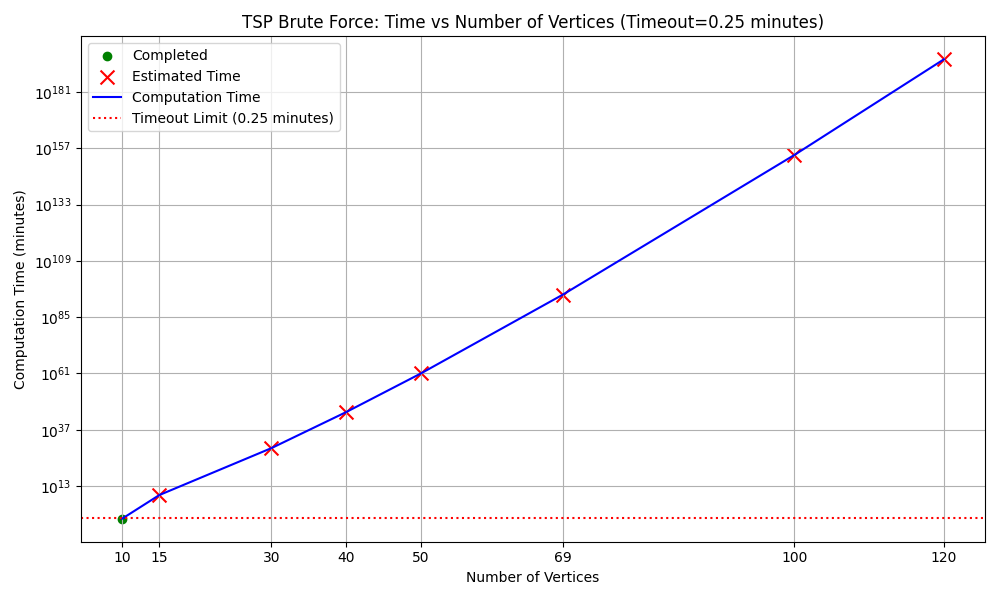
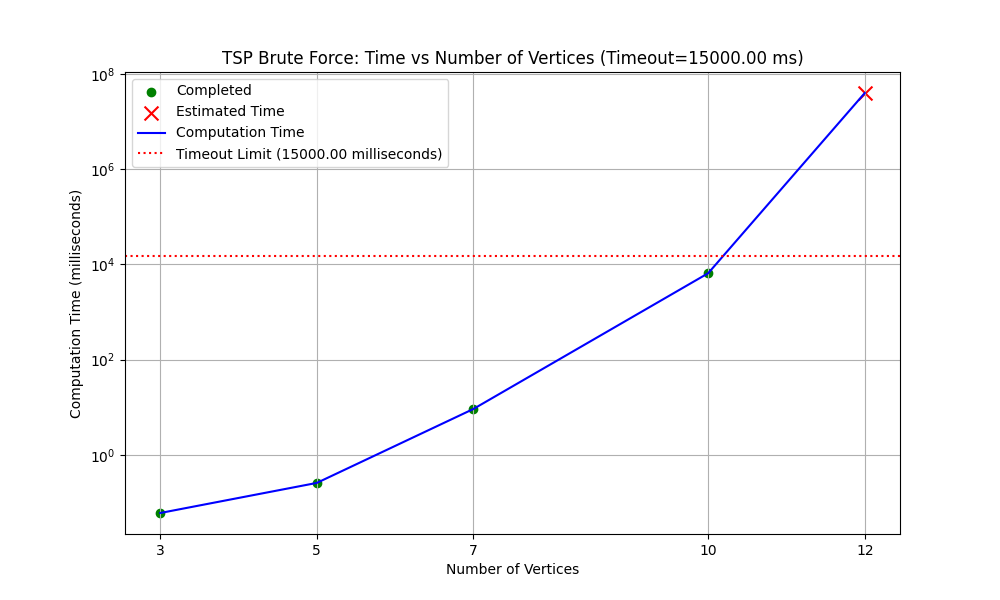
done

diff --git a/code/brute_force_dumb_null.py b/code/brute_force_dumb_null.py
@@ -28,39 +28,46 @@ def brute_force(nodes, time_limit):
 
     return best_path, shortest_distance, False  # No timeout
 
-def graph(cities,best_path,shortest_distance,data,algo,start=0):
-    order = np.array(best_path) # this are the indicies of the cities
+def graph(cities, best_path, shortest_distance, data, algo, start=0):
+    order = np.array(best_path)  # These are the indices of the cities
 
     # Reorder points based on the specified order
     ordered_points = cities[order]
-    
+
     # Add the starting city to the end to complete the circuit
     ordered_points = np.vstack([ordered_points, ordered_points[start]])
-    x = ordered_points[:,0]
-    y = ordered_points[:,1]
-    
+
+    x = ordered_points[:, 0]
+    y = ordered_points[:, 1]
+
     # Create the plot
-    plt.plot(x, y, marker='o', linestyle='-', color='blue', label='Ordered Path')
+    plt.figure(figsize=(8, 6))
+
+    # Plot the path with markers and arrows for clarity
+    plt.plot(x, y, marker='o', markersize=8, color='blue', linestyle='-', label=f'Total Distance: {round(shortest_distance, 2)}')
+
+    # Add direction arrows
+    for i in range(len(x) - 1):
+        plt.annotate('', xy=(x[i + 1], y[i + 1]), xytext=(x[i], y[i]),
+                     arrowprops=dict(facecolor='black', arrowstyle='->'))
+
+    # Add city labels
+    for i, (x_coord, y_coord) in enumerate(zip(x, y)):
+        plt.text(x_coord, y_coord, f'{i}', fontsize=12, ha='right')
+
     # Add labels and title
-    #Create the plot
-    plt.plot(x, y, marker='o', linestyle='-', color='blue', label=f'Total Distance : {round(shortest_distance,2)}')
-    #Add labels and title
     plt.xlabel('X axis')
     plt.ylabel('Y axis')
-    plt.title('Plot of Points in Custom Order')
-    plt.title(f'{algo} : {data} path')
+    plt.title(f'{algo}: {data} Path')
     plt.legend()
 
     # Save the plot to a file
-    plt.savefig('custom_order_plot.png')
-    
-    name,_ = data.split('.')
-    plt.savefig(f'{algo}_{name}_plot.png')
+    name, _ = data.split('.')
+    plt.savefig(f'{algo}_{name}_matplotlib.png')
 
-def test_and_time(dataset_paths, time_limit=60):
-    """
-    Tests multiple datasets, times each run with a timeout.
-    """
+    # Show the plot for debugging purposes
+    #plt.show()
+def test_and_time(dataset_paths, time_limit=15000):  # time_limit in milliseconds
     times = []
     vertices = []
     timeouts = []
@@ -71,45 +78,42 @@ def test_and_time(dataset_paths, time_limit=60):
         num_vertices = len(cities)
 
         # Time the brute force TSP execution
-        start_time = time.time()
-        best_path, shortest_distance, timeout = brute_force(cities, time_limit)
-        elapsed_time = time.time() - start_time
+        start_time = time.time() * 1000  # Start time in milliseconds
+        best_path, shortest_distance, timeout = brute_force(cities, time_limit/1000)
+        elapsed_time = (time.time() * 1000) - start_time  # Elapsed time in milliseconds
 
         # Estimate the time for timeout cases
         if timeout:
             num_permutations = math.factorial(num_vertices - 1)
             estimated_time = time_limit / (elapsed_time / num_permutations)
-            estimated_times.append(estimated_time / 60)  # Convert to minutes
+            estimated_times.append(estimated_time)  # Keep in milliseconds
         else:
-            estimated_times.append(elapsed_time / 60)  # Convert to minutes
-            graph(cities,best_path,shortest_distance,data,'brute_force')
+            estimated_times.append(elapsed_time)  # Keep in milliseconds
+            graph(cities, best_path, shortest_distance, data, 'brute_force')
 
         # Store the results
-        times.append(elapsed_time / 60)  # Convert to minutes
+        times.append(elapsed_time)  # Keep in milliseconds
         vertices.append(num_vertices)
         timeouts.append(timeout)
 
-        # Indicate if timeout occurred
         if timeout:
-            print(f'Dataset: {data}, Timeout after {time_limit / 60:.2f} minutes, Vertices: {num_vertices}')
+            print(f'Dataset: {data}, Timeout after {time_limit / 1000 :.2f} seconds, Vertices: {num_vertices}')
         else:
-            print(f'Dataset: {data}, Time: {elapsed_time / 60:.2f} minutes, Vertices: {num_vertices}')
+            print(f'Dataset: {data}, Time: {elapsed_time:.2f} milliseconds, Vertices: {num_vertices}')
 
     return vertices, times, timeouts, estimated_times
 
-def plot_time_vs_vertices(vertices, times, timeouts, estimated_times, time_limit):
+def plot_time_vs_vertices(vertices, times, timeouts, estimated_times, time_limit=15000):
     """
-    Plots the number of vertices against the computation time.
+    Plots the number of vertices against the computation time in milliseconds.
     Indicate timeouts on the graph.
     """
     plt.figure(figsize=(10, 6))
 
-    # Initialize flags to track if the labels have been used
     estimated_time_label_used = False
     completed_label_used = False
     total_time = []
 
-    # Plot normal points where no timeout occurred
     for i in range(len(vertices)):
         if timeouts[i]:
             if not estimated_time_label_used:
@@ -127,32 +131,31 @@ def plot_time_vs_vertices(vertices, times, timeouts, estimated_times, time_limit
 
             total_time.append(times[i])
 
-    plt.plot(vertices,total_time, linestyle='-', color='blue', label='Computation Time')
+    plt.plot(vertices, total_time, linestyle='-', color='blue', label='Computation Time')
 
-    # Add horizontal line for timeout
-    plt.axhline(y=time_limit / 60, color='red', linestyle='dotted', label=f'Timeout Limit ({time_limit / 60:.2f} minutes)')
+    # Add horizontal line for timeout (in milliseconds)
+    plt.axhline(y=time_limit, color='red', linestyle='dotted', label=f'Timeout Limit ({time_limit:.2f} milliseconds)')
 
     plt.xlabel('Number of Vertices')
-    plt.ylabel('Computation Time (minutes)')
-    plt.title(f'TSP Brute Force: Time vs Number of Vertices (Timeout={time_limit / 60:.2f} minutes)')
-    #plt.yscale('log')  # Logarithmic scale for y-axis
+    plt.ylabel('Computation Time (milliseconds)')
+    plt.title(f'TSP Brute Force: Time vs Number of Vertices (Timeout={time_limit :.2f} ms)')
     plt.grid(True, which='both')  # Grid for both major and minor ticks
     plt.legend()
     plt.xticks(vertices)
-
+ #   plt.ylim(None, 7000)
+    plt.yscale('log')
     # Save and show the plot
-    plt.tight_layout()
+ #   plt.tight_layout()
     plt.savefig('brute_force_plot.png')
+    plt.show()
 
 if __name__ == '__main__':
     # List of datasets to test
-    dataset_paths = ['3_tiny_null.csv','6_tiny_null.csv','7_tiny_null.csv','9_tiny_null.csv','10_tiny_null.csv']
+    dataset_paths = ['3_tiny_null.csv','5_tiny_null.csv','7_tiny_null.csv','10_tiny_null.csv','12_tiny_null.csv']
 
-    # Set a time limit for each dataset (e.g., 60 seconds)
-    time_limit = 30  # in seconds
 
     # Run the tests and time them
-    vertices, times, timeouts, estimated_times = test_and_time(dataset_paths, time_limit)
+    vertices, times, timeouts, estimated_times = test_and_time(dataset_paths)
 
     # Plot the results with timeouts
-    plot_time_vs_vertices(vertices, times, timeouts, estimated_times, time_limit)
+    plot_time_vs_vertices(vertices, times, timeouts, estimated_times)
